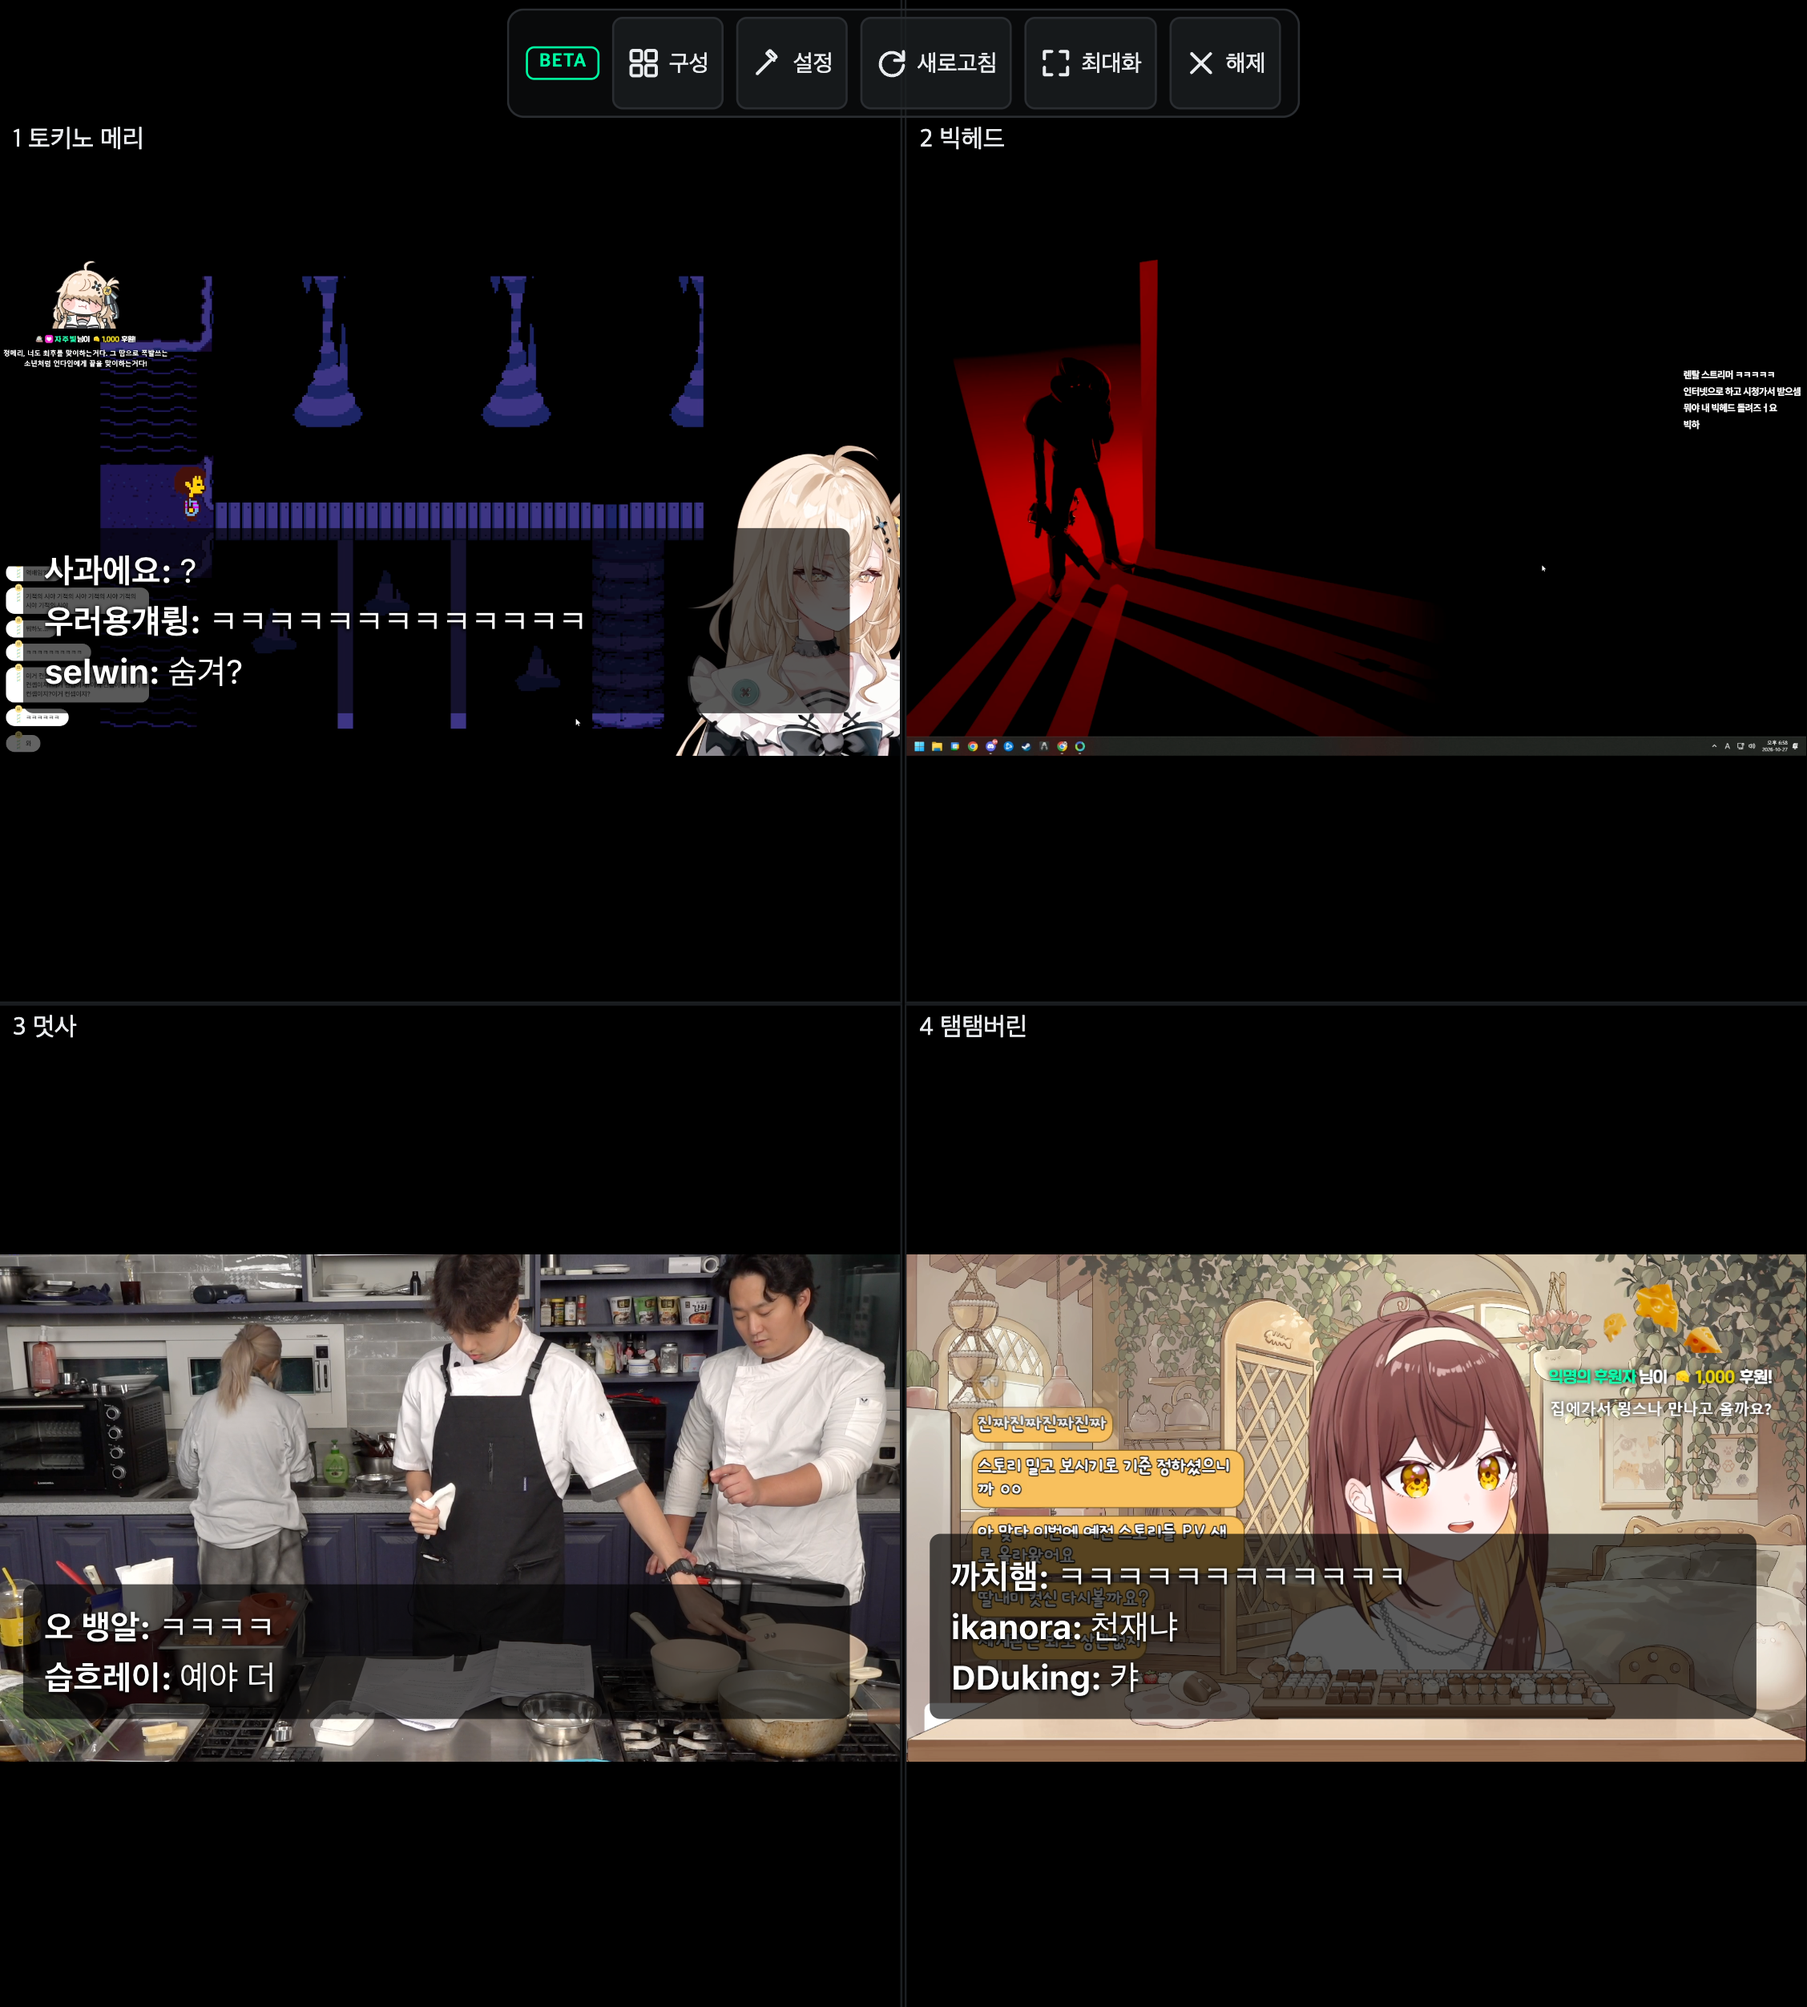
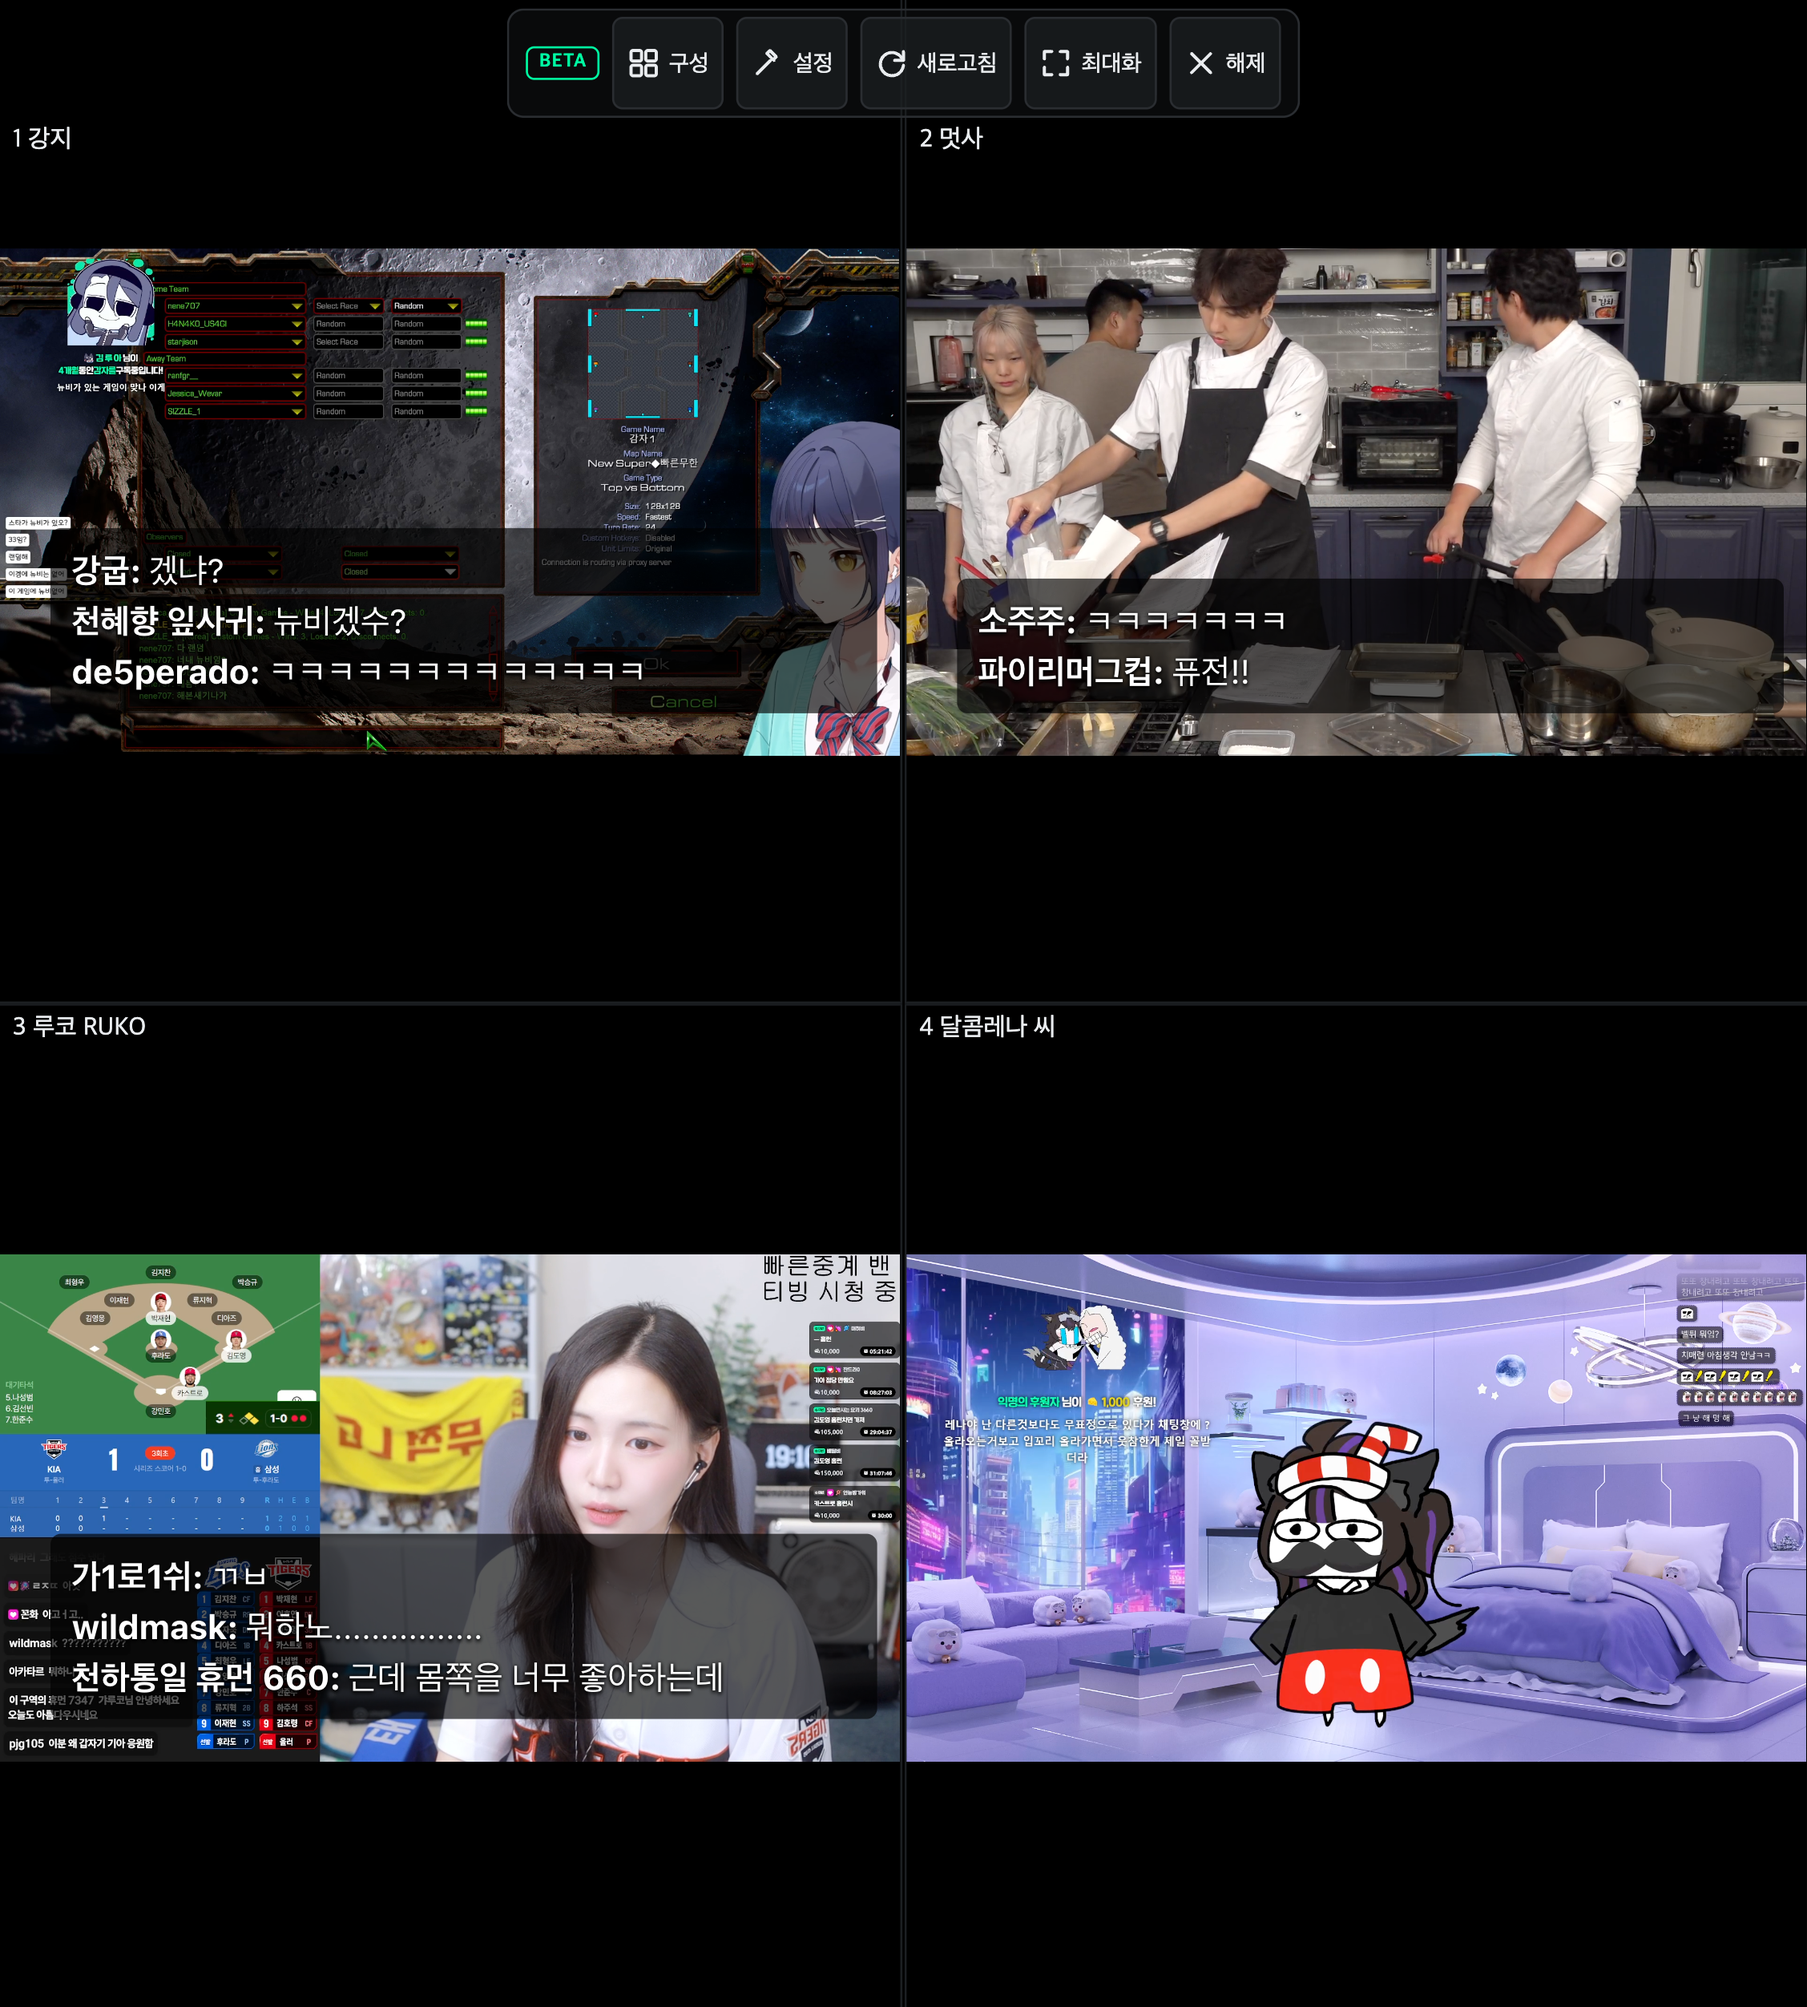
feat: 자막형 채팅 하단 위치 선택 및 우측 기본값 적용

diff --git a/src/settingsPanel/ChatSubtitleOptions.tsx b/src/settingsPanel/ChatSubtitleOptions.tsx
@@ -21,13 +21,28 @@ export function ChatSubtitleOptions({
     <section aria-label="자막형 채팅 설정">
       <h3>자막형 채팅</h3>
       <Toggle
-        label="영상 좌측 하단에 채팅 표시"
+        label="영상 위에 자막형 채팅 표시"
         checked={value.enabled}
         onChange={(enabled) => patch({ enabled })}
       />
       <p className="cm-sheet__note">
         최근 채팅을 영상 위에 자막처럼 표시합니다. 기존 채팅창은 그대로 사용할 수 있습니다.
       </p>
+      <div className="cm-sheet__row">
+        <label htmlFor="cm-subtitle-position">표시 위치</label>
+        <select
+          id="cm-subtitle-position"
+          aria-label="자막형 채팅 표시 위치"
+          value={value.position}
+          onChange={(event) =>
+            patch({ position: event.target.value as SubtitleSettings['position'] })
+          }
+        >
+          <option value="left">좌측 하단</option>
+          <option value="center">가운데 하단</option>
+          <option value="right">우측 하단</option>
+        </select>
+      </div>
       <div className="cm-sheet__row">
         <label htmlFor="cm-subtitle-count">표시 줄 수</label>
         <select
@@ -101,7 +116,11 @@ export function ChatSubtitleOptions({
         checked={value.showNickname}
         onChange={(showNickname) => patch({ showNickname })}
       />
-      <div className="cm-subtitle-preview" aria-label="자막형 채팅 미리보기">
+      <div
+        className="cm-subtitle-preview"
+        data-position={value.position}
+        aria-label="자막형 채팅 미리보기"
+      >
         <div
           style={{
             backgroundColor: subtitleBackground(value),
@@ -110,7 +129,8 @@ export function ChatSubtitleOptions({
           }}
         >
           <div>
-            {value.showNickname && <strong>시청자: </strong>}채팅이 영상 좌측 하단에 표시됩니다.
+            {value.showNickname && <strong>시청자: </strong>}채팅이 선택한 영상 하단 위치에
+            표시됩니다.
           </div>
           <div>
             {value.showNickname && <strong>이지직: </strong>}배경색과 불투명도를 조절해 보세요.

diff --git a/src/features/chatSubtitle.ts b/src/features/chatSubtitle.ts
@@ -23,6 +23,7 @@ export function subtitleSettings(value?: Partial<SubtitleSettings>): SubtitleSet
     typeof value === 'string' && /^#[\da-f]{6}$/i.test(value) ? value : fallback;
   return {
     enabled: value?.enabled === true,
+    position: value?.position === 'left' || value?.position === 'center' ? value.position : 'right',
     lines: [0, 3, 4, 5, 6].includes(value?.lines ?? -1) ? value!.lines! : 0,
     fontPx: bounded(value?.fontPx, defaults.fontPx, 12, 28),
     textColor: color(value?.textColor, defaults.textColor),
@@ -71,12 +72,24 @@ export function subtitleGeometry(
   const lineHeight = Math.ceil(fontPx * 1.45);
   const available = Math.max(3, Math.min(6, Math.floor((height - bottom - 24) / lineHeight)));
   const automatic = Math.max(3, Math.min(6, Math.floor((height * 0.28) / lineHeight)));
+  const margin = Math.min(width / 2, Math.round(Math.min(16, Math.max(4, width * 0.025))));
+  const overlayWidth = Math.min(
+    720,
+    Math.floor(Math.max(0, width) * (width < 600 ? 0.92 : 0.62)),
+    Math.max(0, width - 2 * margin),
+  );
+  const left =
+    settings.position === 'left'
+      ? margin
+      : settings.position === 'center'
+        ? (width - overlayWidth) / 2
+        : width - overlayWidth - margin;
   return {
     fontPx,
     lineHeight,
     lines: Math.min(settings.lines || automatic, available),
-    width: Math.min(720, Math.floor(Math.max(0, width) * (width < 600 ? 0.92 : 0.62))),
-    left: Math.round(Math.min(16, Math.max(4, width * 0.025))),
+    width: overlayWidth,
+    left,
     bottom,
   };
 }

diff --git a/src/features/chatSubtitle.test.ts b/src/features/chatSubtitle.test.ts
@@ -36,6 +36,21 @@ describe('자막형 채팅 저장값과 크기', () => {
     expect(subtitleSettings().enabled).toBe(false);
   });
 
+  it('저장값에 위치가 없으면 우측 하단을 적용하고 세 위치 모두 영상 안에 배치한다', () => {
+    expect(subtitleSettings().position).toBe('right');
+    expect(mergeSettings({ chatSubtitle: { enabled: true } }).chatSubtitle.position).toBe('right');
+    expect(subtitleSettings({ position: 'invalid' as 'right' }).position).toBe('right');
+    for (const width of [320, 859, 1440]) {
+      const left = subtitleGeometry(width, 480, subtitleSettings({ position: 'left' }));
+      const center = subtitleGeometry(width, 480, subtitleSettings({ position: 'center' }));
+      const right = subtitleGeometry(width, 480, subtitleSettings({ position: 'right' }));
+      expect(left.left).toBeLessThan(center.left);
+      expect(center.left).toBeLessThan(right.left);
+      expect(center.left + center.width / 2).toBe(width / 2);
+      expect(right.left + right.width).toBeCloseTo(width - left.left);
+    }
+  });
+
   it('불투명도는 글자색에 영향을 주지 않고 0~100%로 적용된다', () => {
     const settings = subtitleSettings({ backgroundColor: '#123456', backgroundOpacity: 25 });
     expect(subtitleBackground(settings)).toBe('rgba(18, 52, 86, 0.25)');

diff --git a/src/settingsPanel/ChatSubtitleOptions.test.tsx b/src/settingsPanel/ChatSubtitleOptions.test.tsx
@@ -27,13 +27,23 @@ describe('자막형 채팅 설정', () => {
     const toggle = host.querySelector<HTMLButtonElement>('button[role="switch"]')!;
     act(() => toggle.click());
     expect(latest.chatSubtitle.enabled).toBe(true);
-    const select = host.querySelector<HTMLSelectElement>('select')!;
+    const select = host.querySelector<HTMLSelectElement>('#cm-subtitle-count')!;
     expect([...select.options].map((option) => option.value)).toEqual(['0', '3', '4', '5', '6']);
     act(() => {
       select.value = '6';
       select.dispatchEvent(new Event('change', { bubbles: true }));
     });
     expect(latest.chatSubtitle.lines).toBe(6);
+    const position = host.querySelector<HTMLSelectElement>('#cm-subtitle-position')!;
+    expect(position.value).toBe('right');
+    for (const value of ['left', 'center', 'right']) {
+      act(() => {
+        position.value = value;
+        position.dispatchEvent(new Event('change', { bubbles: true }));
+      });
+      expect(latest.chatSubtitle.position).toBe(value);
+      expect(host.querySelector('.cm-subtitle-preview')!.getAttribute('data-position')).toBe(value);
+    }
     const background = host.querySelector<HTMLInputElement>(
       'input[aria-label="자막형 채팅 배경색"]',
     )!;

diff --git a/src/constants/storage.ts b/src/constants/storage.ts
@@ -87,9 +87,10 @@ export type Settings = {
   chatPresetBehavior: 'send' | 'fill';
   /** FR-15 — 사이드 11~24(기본 14 = 치지직 원본), 슬롯 10~16(기본 12) */
   chatFont: { sidePx: number; slotPx: number };
-  /** 영상 좌측 하단에 최근 채팅을 자막처럼 표시한다. 0줄은 화면에 맞춰 3~6줄. */
+  /** 영상 하단에 최근 채팅을 자막처럼 표시한다. 0줄은 화면에 맞춰 3~6줄. */
   chatSubtitle: {
     enabled: boolean;
+    position: 'left' | 'center' | 'right';
     lines: 0 | 3 | 4 | 5 | 6;
     fontPx: number;
     textColor: string;
@@ -275,6 +276,7 @@ export const DEFAULT_SETTINGS: Settings = {
   chatFont: { sidePx: CHAT_FONT_RANGE.side.default, slotPx: CHAT_FONT_RANGE.slot.default },
   chatSubtitle: {
     enabled: false,
+    position: 'right',
     lines: 0,
     fontPx: 16,
     textColor: '#ffffff',

diff --git a/src/settingsPanel/settingsPanelCss.ts b/src/settingsPanel/settingsPanelCss.ts
@@ -9,10 +9,14 @@ import { BG, BORDER, FG, OVERLAY, RADIUS, ACCENT } from '../ui/tokens';
 
 export const SETTINGS_PANEL_CSS = `
 .cm-subtitle-preview {
+  display: flex; justify-content: flex-end;
   margin: 10px 0; padding: 24px 12px 12px;
   border-radius: 6px; background: linear-gradient(135deg, #275979, #765c45);
 }
+.cm-subtitle-preview[data-position='left'] { justify-content: flex-start; }
+.cm-subtitle-preview[data-position='center'] { justify-content: center; }
 .cm-subtitle-preview > div {
+  max-width: 85%;
   padding: 8px 10px; border-radius: 5px; line-height: 1.45;
   overflow-wrap: anywhere; text-shadow: 0 1px 2px #000, 0 0 2px #000;
 }

diff --git a/screenshots/chat-subtitle.md b/screenshots/chat-subtitle.md
@@ -1,9 +1,10 @@
 # 자막형 채팅
 
-설정 → **채팅** → **영상 좌측 하단에 채팅 표시**에서 켠다. 기본값은 끄기이며 기존 채팅창과 입력창을 유지한다. 일반 라이브·전체화면·멀티뷰의 각 슬롯에서 사용할 수 있다.
+설정 → **채팅** → **영상 위에 자막형 채팅 표시**에서 켠다. 기본값은 끄기이며 기존 채팅창과 입력창을 유지한다. 일반 라이브·전체화면·멀티뷰의 각 슬롯에서 사용할 수 있다.
 
 [유튜브 자막 설정](https://support.google.com/youtube/answer/100078?hl=ko)의 배경색·불투명도·글자색·크기 구성을 참고했다.
 
+- **표시 위치:** 좌측 하단·가운데 하단·우측 하단 중 선택. 기본값은 우측 하단.
 - **표시 줄 수:** 자동(영상 공간에 따라 3~6줄), 또는 3·4·5·6줄 선택.
 - **글자 크기:** 12~28px. 작은 영상에서는 들어갈 수 있는 크기와 줄 수로 조정한다.
 - **글자색·배경색:** 색상 선택기로 조절한다.
@@ -11,7 +12,7 @@
 - **닉네임:** 표시 여부를 선택할 수 있다.
 - 미리보기에 변경이 즉시 반영되며, 새로고침 후에도 설정을 유지한다. 채팅 탭 초기화·자막 설정 초기화·설정 프리셋에 포함된다.
 
-자막은 최신 채팅을 아래쪽에 표시하고, 긴 문장은 줄을 바꾼다. 선택한 높이를 넘으면 오래된 줄부터 가려 최신 3~6줄을 보여준다. 검은 여백을 제외한 실제 영상의 좌측 하단에 붙이고, 컨트롤바가 나타나면 위로 이동한다. 영상 클릭·더블클릭·터치 조작을 가로막지 않는다.
+자막은 최신 채팅을 아래쪽에 표시하고, 긴 문장은 줄을 바꾼다. 선택한 높이를 넘으면 오래된 줄부터 가려 최신 3~6줄을 보여준다. 검은 여백을 제외한 실제 영상의 선택한 하단 위치에 붙이고, 컨트롤바가 나타나면 위로 이동한다. 영상 클릭·더블클릭·터치 조작을 가로막지 않는다.
 
 표시할 채팅이 없으면 자막을 숨긴다. 메시지를 별도로 저장하거나 전송하지 않는다.
 
@@ -20,10 +21,11 @@
 2026-10-27 확장을 로드한 Chromium에서 실제 치지직 방송과 채팅을 캡처했다. 모바일·폴드 프로필은 터치 입력과 데스크톱 사이트 모드를 에뮬레이션한 참조 뷰포트다.
 
 - 채팅 표시 순서와 최신 메시지 반영, 3~6줄 범위, 영상 내부 배치 확인.
+- 실제 설정 UI로 좌측·가운데·우측 하단 전환 및 우측 하단 저장 확인.
 - 실제 설정 UI로 글자 크기 17px·불투명도 70% 변경 → 끄기·켜기 → 새로고침 후 유지 확인.
 - 전체화면에서도 자막이 fullscreen 요소 내부에 표시되는지 확인.
 - 멀티뷰에서도 원본 채팅이 있는 슬롯의 자막 표시 확인.
-- 타입 검사·빌드·린트·포맷 검사 통과. 테스트 1,270개 통과, 4개 건너뜀.
+- 타입 검사·빌드·린트·포맷 검사 통과. 테스트 1,271개 통과, 4개 건너뜀.
 
 | 화면 | 자막형 채팅 | 설정 |
 | --- | --- | --- |
